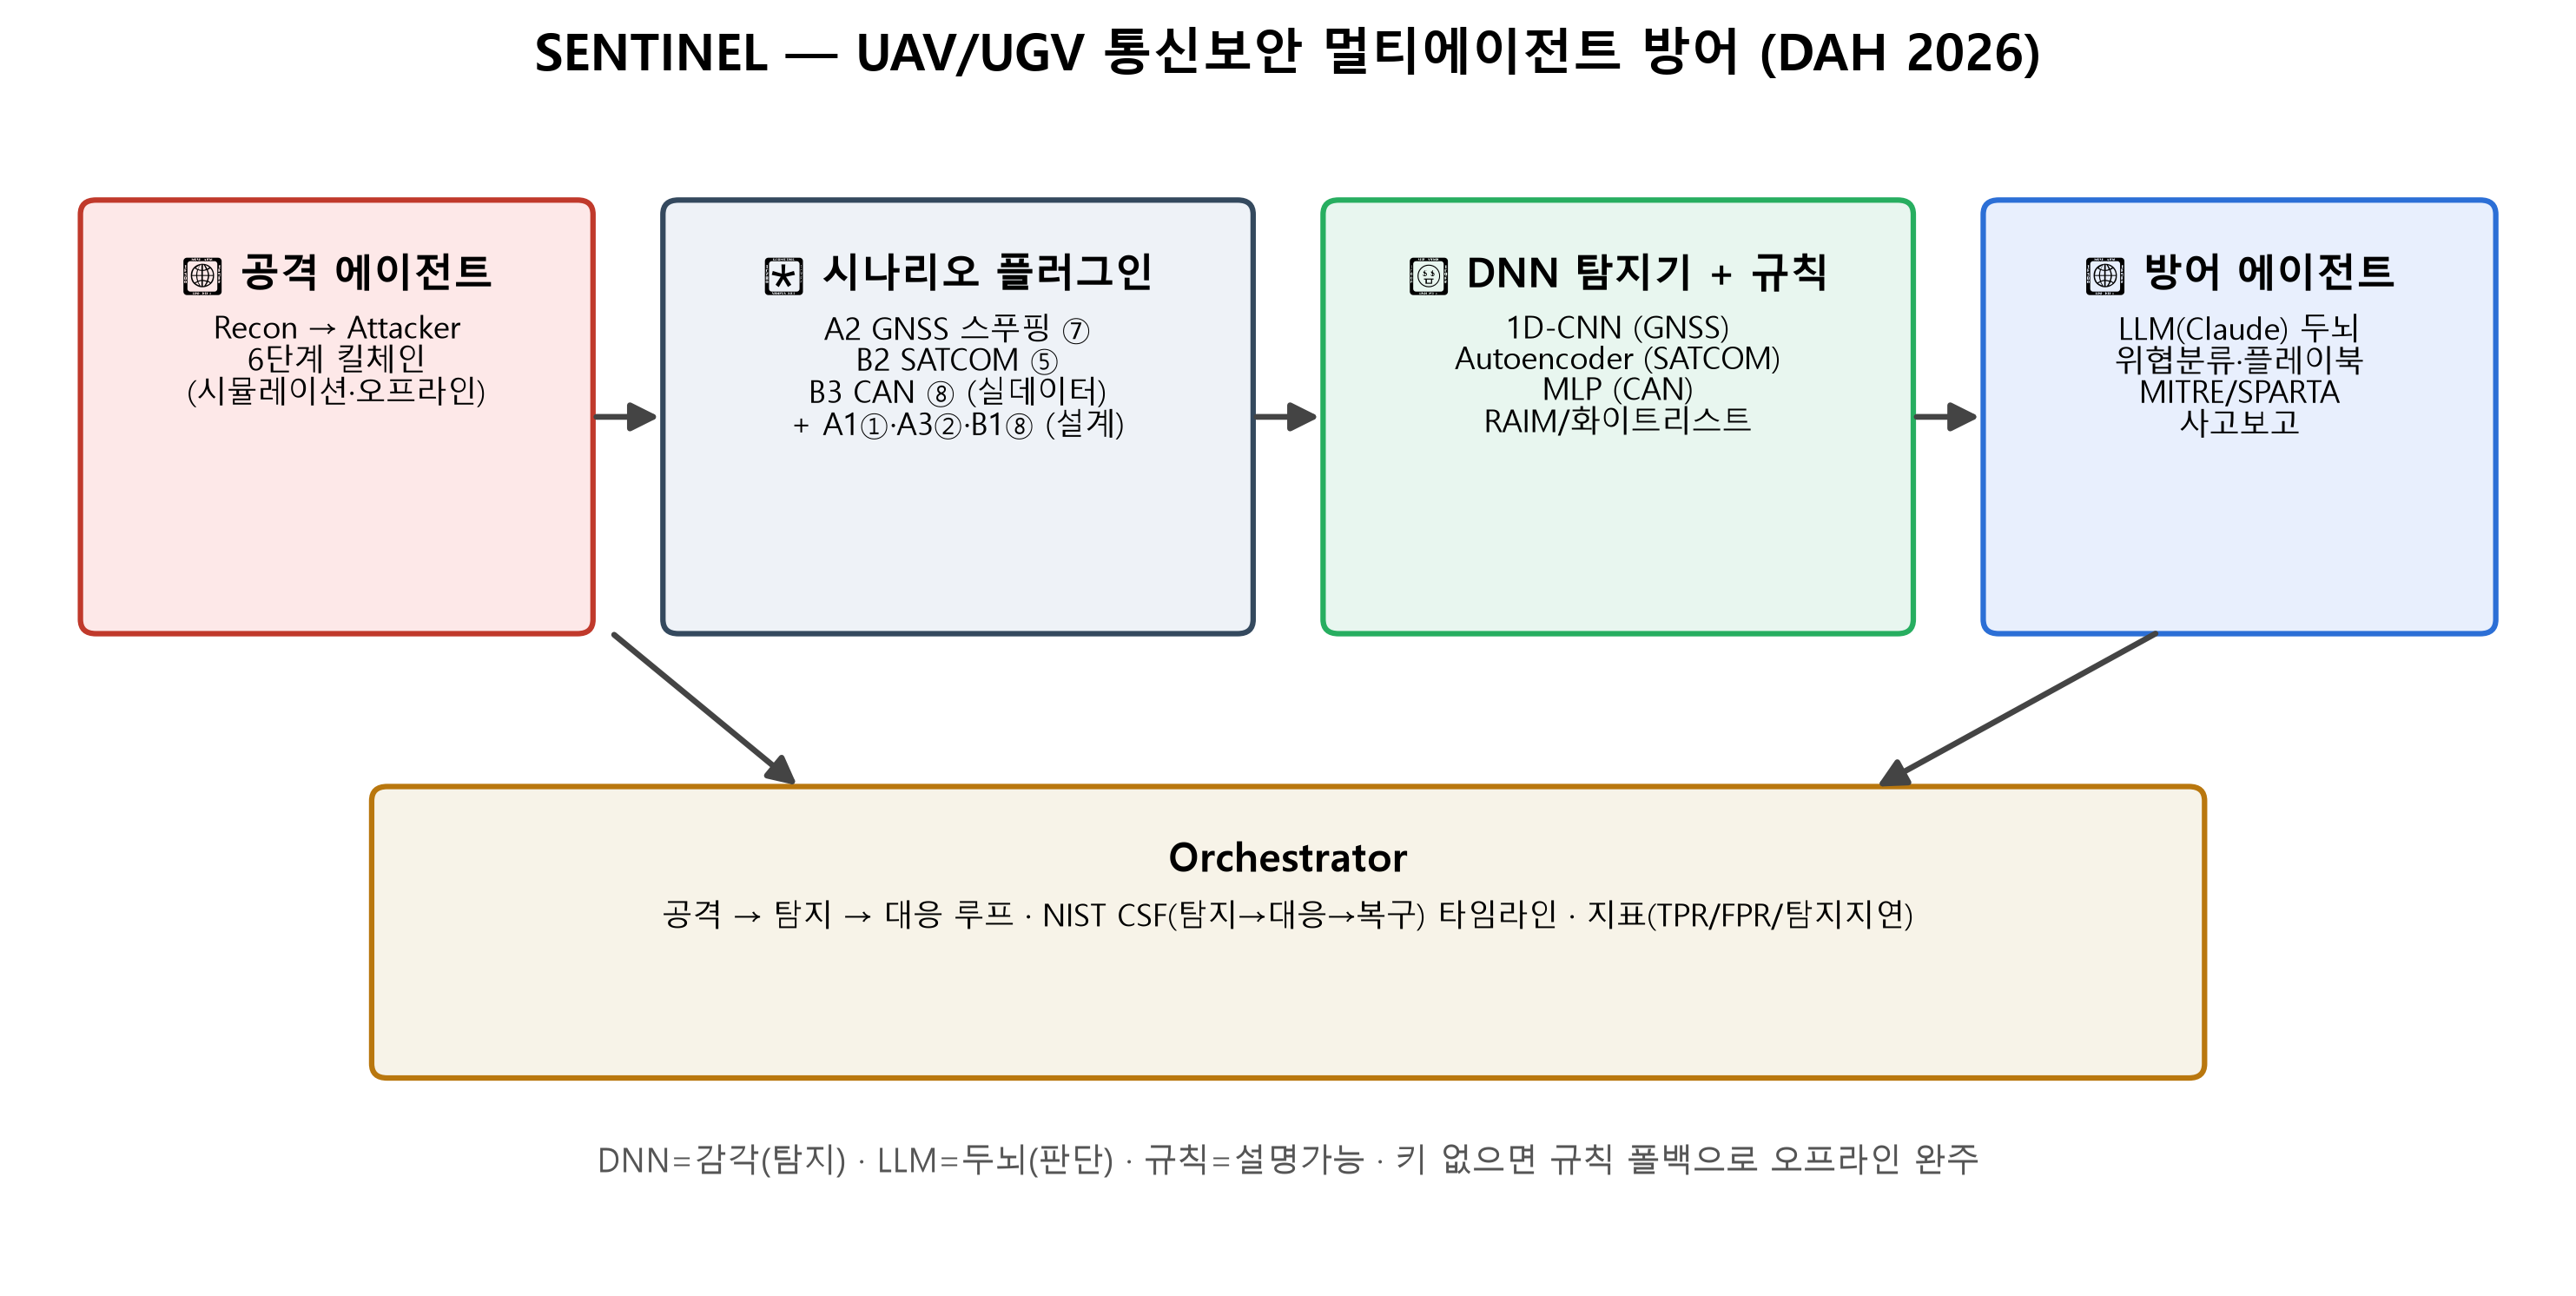
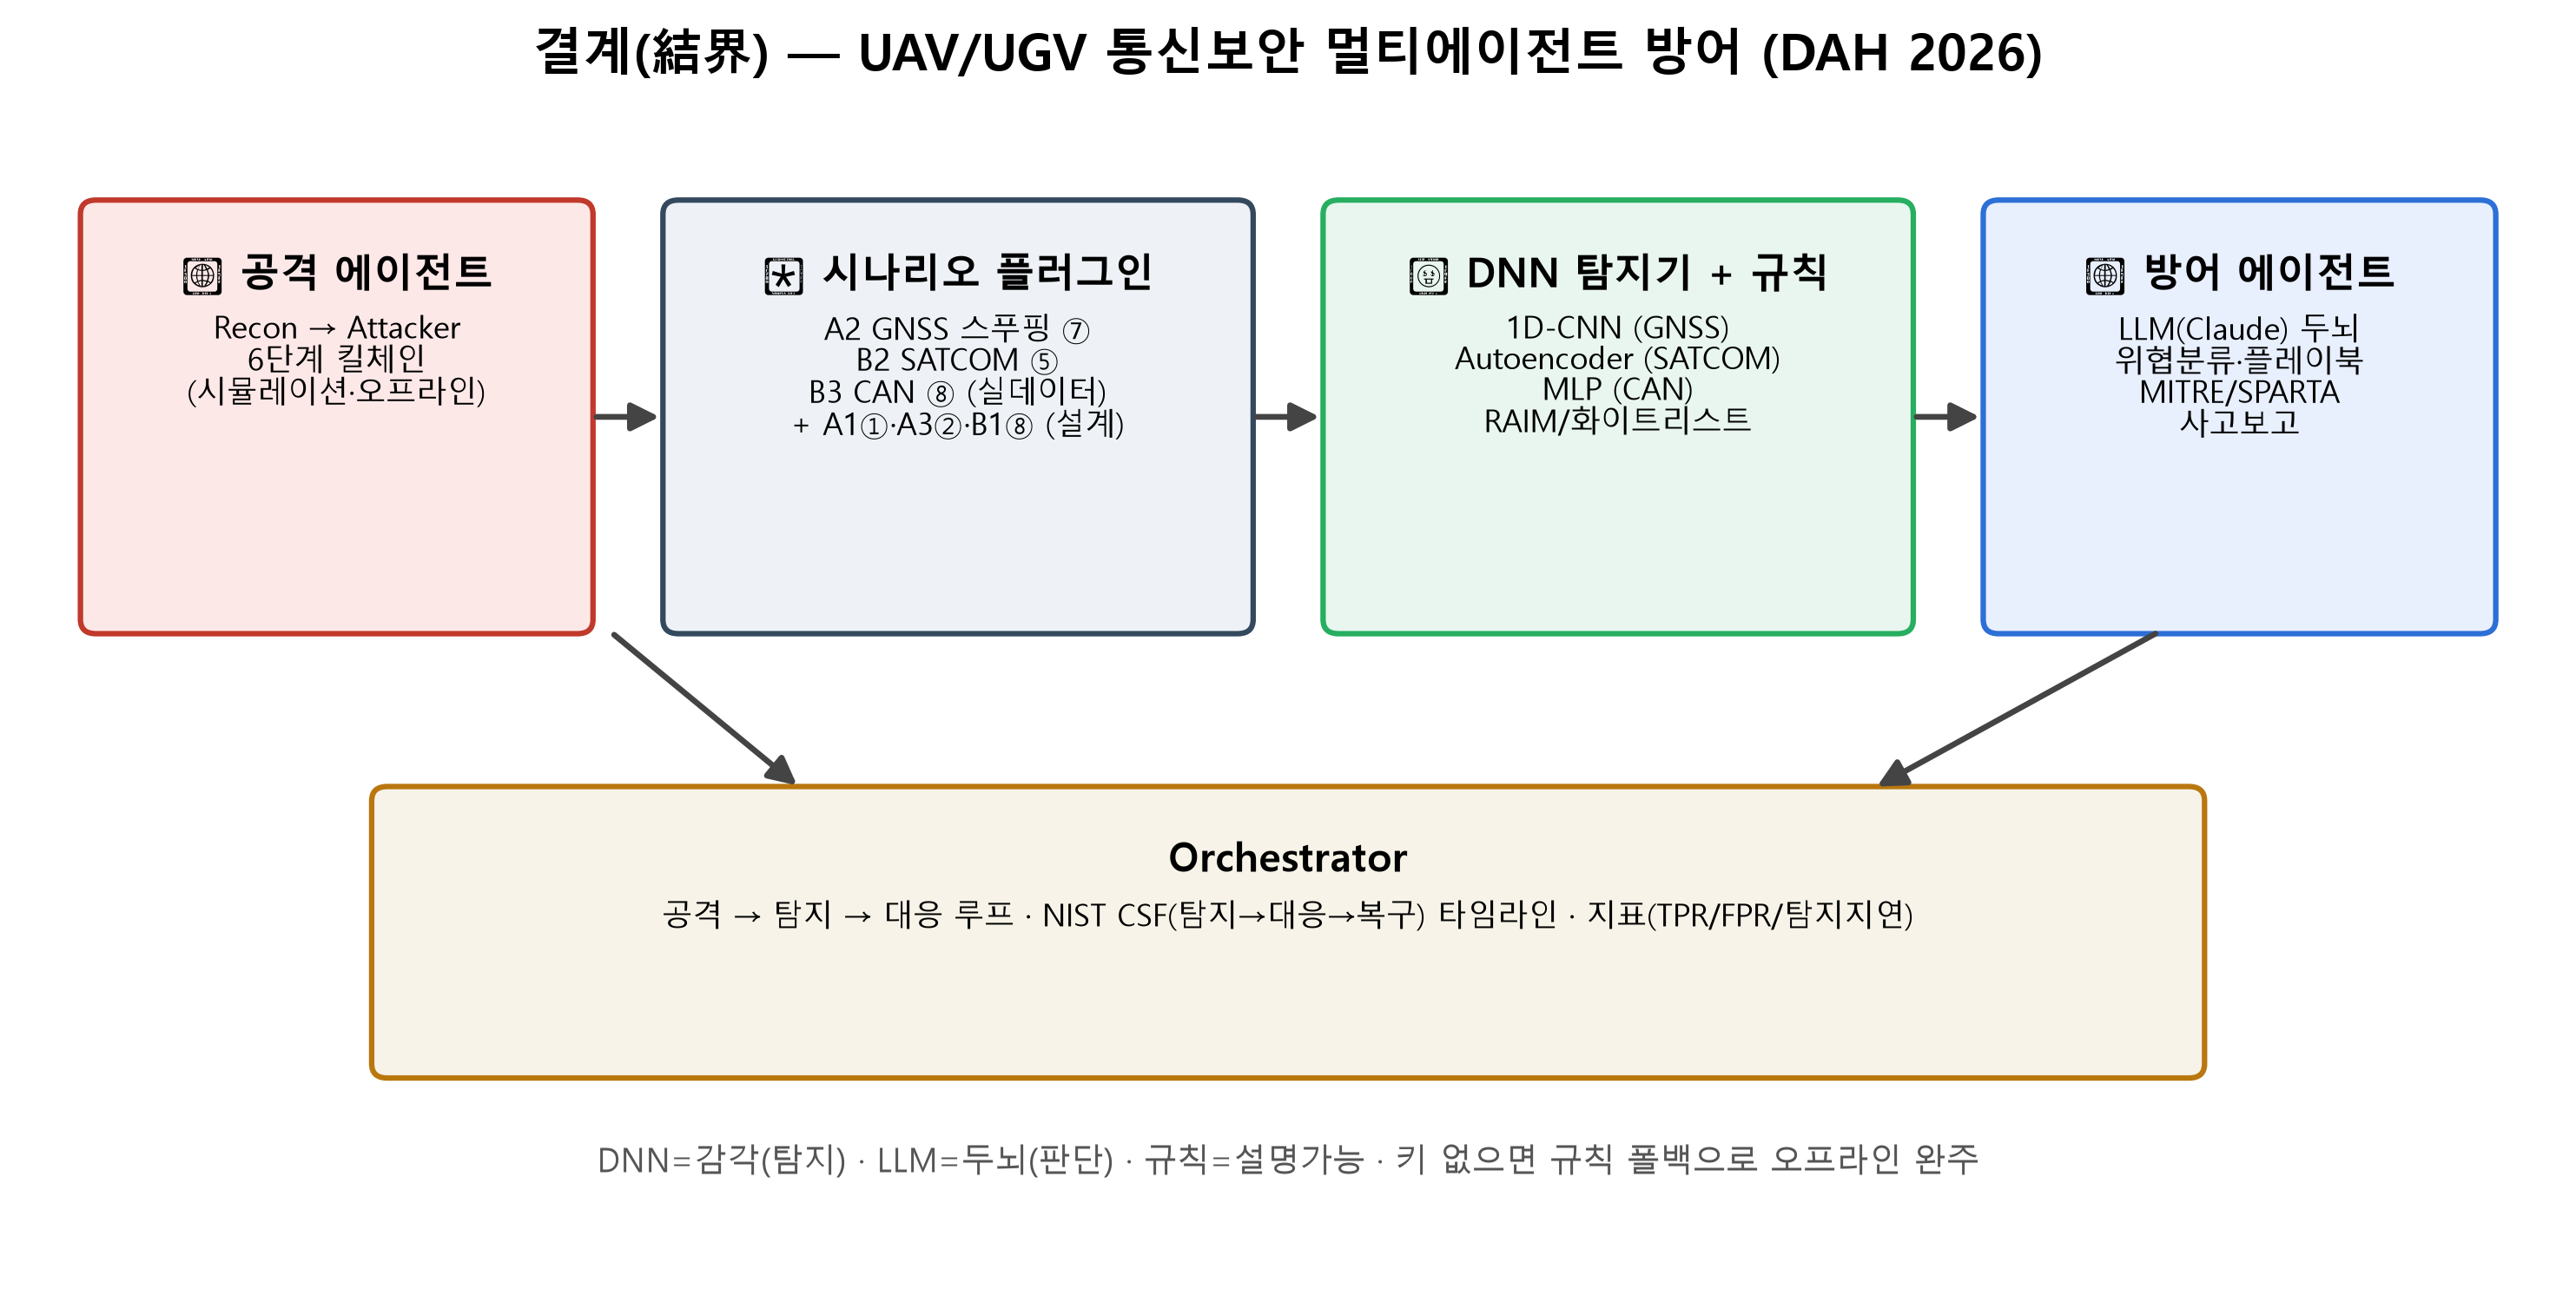
코드네임 변경: SENTINEL -> 결계(結界)
- 코드·README·아키텍처 다이어그램·환경변수(GYEOLGYE_DOCS_DIR) 전면 반영
- 팀 백공검(白空劍) 검 테마에 맞춘 시스템명

Changed region(s): [[0.5273, 0.0, 0.8065, 0.0617], [0.1861, 0.0, 0.3102, 0.0617], [0.3412, 0.0308, 0.4963, 0.0617]]

diff --git a/src/make_diagram.py b/src/make_diagram.py
@@ -1,4 +1,4 @@
-"""SENTINEL 아키텍처 다이어그램(PNG) 생성 — mermaid-cli 없이 matplotlib로.
+"""결계(結界) 아키텍처 다이어그램(PNG) 생성 — mermaid-cli 없이 matplotlib로.
 
 python src/make_diagram.py --docs-dir "…/dev_docu"  → 00_overview/architecture.png
 """
@@ -32,7 +32,7 @@ def _arrow(ax, x1, y1, x2, y2):
 def build():
     fig, ax = plt.subplots(figsize=(12.5, 6.2))
     ax.set_xlim(0, 13); ax.set_ylim(0, 7); ax.axis("off")
-    ax.text(6.5, 6.75, "SENTINEL — UAV/UGV 통신보안 멀티에이전트 방어 (DAH 2026)",
+    ax.text(6.5, 6.75, "결계(結界) — UAV/UGV 통신보안 멀티에이전트 방어 (DAH 2026)",
             ha="center", fontsize=14, fontweight="bold")
 
     _box(ax, 0.3, 3.6, 2.6, 2.4, "🔴 공격 에이전트",

diff --git a/src/paths.py b/src/paths.py
@@ -37,8 +37,8 @@ def data_dir() -> str:
 
 
 def resolve_docs_dir(cli_arg: str | None) -> str | None:
-    """--docs-dir 인자 > SENTINEL_DOCS_DIR 환경변수 > None(=results만)."""
-    d = cli_arg or os.environ.get("SENTINEL_DOCS_DIR") or None
+    """--docs-dir 인자 > GYEOLGYE_DOCS_DIR 환경변수 > None(=results만)."""
+    d = cli_arg or os.environ.get("GYEOLGYE_DOCS_DIR") or None
     if d:
         os.makedirs(d, exist_ok=True)
     return d

diff --git a/src/run_demo.py b/src/run_demo.py
@@ -1,4 +1,4 @@
-"""SENTINEL 데모 진입점 — 공격→탐지→대응 오케스트레이션을 실행.
+"""결계(結界) 데모 진입점 — 공격→탐지→대응 오케스트레이션을 실행.
 
 사용:
   python src/run_demo.py --scenario all --docs-dir "…/dev_docu"
@@ -52,7 +52,7 @@ def main():
              "탐지" if r["detected"] else "정상", r["score"],
              (f"{r['latency']}{r['latency_unit']}" if r["latency"] is not None else "-")]
             for r in results]
-    summary = ("# SENTINEL 오케스트레이션 요약\n\n"
+    summary = ("# 결계(結界) 오케스트레이션 요약\n\n"
                f"LLM 상태: {orch.llm.status}\n\n"
                + md_table(["시나리오", "계층", "위협", "탐지", "점수", "탐지지연"], rows)
                + "\n\n> 각 시나리오 상세는 `incident_<key>.md` 참조. "

diff --git a/src/__init__.py b/src/__init__.py
@@ -1,2 +1,2 @@
-"""SENTINEL — UAV/UGV 통신보안 멀티에이전트 방어 PoC (DAH 2026)."""
+"""결계(結界) — UAV/UGV 통신보안 멀티에이전트 방어 PoC (DAH 2026)."""
 __version__ = "0.1.0"

diff --git a/src/agents/orchestrator.py b/src/agents/orchestrator.py
@@ -35,7 +35,7 @@ class Orchestrator:
 
     def run(self, scenario_keys):
         c = self.console
-        c.rule("[bold]SENTINEL — 공격→탐지→대응 오케스트레이션")
+        c.rule("[bold]결계(結界) — 공격→탐지→대응 오케스트레이션")
         c.print(f"🧠 방어 에이전트 구동: [bold]{self.llm.status}[/]  "
                 f"(DNN 탐지기는 항상 활성)")
         results = []

diff --git a/results/demo/incident_b3_can.md b/results/demo/incident_b3_can.md
@@ -19,9 +19,7 @@
 - 최소 IAT 0.015 ms — 버스 폭주(DoS) 정황
 
 ## 위협 분석(에이전트)
-**위협 분석 결과: 높은 신뢰도의 CAN 버스 침투 공격 탐지**
-
-Wi-Fi 침투 이후 CAN 버스에서 미등록 ID 25%와 극도로 짧은 IAT(0.015ms)가 동시 관찰되었으며, 이는 정상 차량 통신 패턴과 완전히 상이한 특성입니다. 특히 단일 ID 점유율(12%)과 고유 ID 수(23개) 조합에서 비정상적 버스 폭주 및 구동계 명령 주입이 진행 중일 가능성이 높습니다. 경량 MLP 모델의 1.0 공격확률은 이러한 다층적 이상 신호들을 종합적으로 포착한 결과로, 즉각적인 CAN 격리 및 ECU 상태 검증이 필요합니다.
+④⑧ 내부버스 계층에서 경량 MLP(윈도 특징) 기반 이상 탐지(점수 1.0). 근거: 미등록 CAN ID 비율 25% — 퍼지/주입 정황 / 최소 IAT 0.015 ms — 버스 폭주(DoS) 정황.
 
 ## 대응 플레이북 (NIST CSF)
 ### 대응(Respond)
@@ -37,6 +35,4 @@ Wi-Fi 침투 이후 CAN 버스에서 미등록 ID 25%와 극도로 짧은 IAT(0.
 - 구동계·센서 도메인 분리 + IDS 상주
 
 ## 지휘 요약(에이전트)
-# CAN 인젝션 위협 대응 요약
-
-**위협상황**: 무인증 CAN 버스 악용으로 구동계 명령 변조 위험(T0859/T1565). 즉시 안전모드 진입 후 구동 토픽을 차단하여 차량을 물리적으로 정지시키고, 침해된 내부버스 세그먼트(도메인 ④⑧)를 격리합니다. **우선순위**: ① 즉시조치(1단계: 차량정지)→ ② 복구(격리된 세그먼트 무결성 검증, CAN 메시지 무결성 체크)→ ③ 근본대응(버스 인증메커니즘 추가, 메시지 암호화/서명 강제화, 비정상 CAN 프레임 탐지 시스템 구축).
+'CAN 인젝션 (내부버스 구동계 변조)' 확정. 즉시조치: 안전모드 진입 → 차량 정지(구동 토픽 차단). 이후 복구·근본대응(예방)까지 단계 실행. MITRE T0859 (Valid Accounts), T0814 (DoS), T1565 (Data Manipulation).

diff --git a/PLAN.md b/PLAN.md
@@ -1,7 +1,7 @@
 # DAH 2026 예선 — 구현 & 보고서 계획서 (PLAN v2 · 통합본 기준)
 
 > 작성 기준일: 2026-07-08 · 기준 문서: **DAH2026_서베이_통합본.md** (반현준·형유림·임다은·김태형 4인 통합, 8계층·시나리오 6개)
-> 시스템 코드네임(가칭): **SENTINEL** · 담당(구현 드라이브): 형유림
+> 시스템 코드네임(가칭): **결계(結界)** · 담당(구현 드라이브): 형유림
 > 이 문서 하나로 (A) 코드 구현 + (B) 보고서 작성을 함께 관리한다.
 
 ---
@@ -55,7 +55,7 @@
 
 ---
 
-## 2. 시스템 아키텍처 — SENTINEL
+## 2. 시스템 아키텍처 — 결계(結界)
 
 ```mermaid
 flowchart LR
@@ -212,7 +212,7 @@ dev/
 ---
 
 ## 7. 지금 필요한 결정·입력
-1. **[결정] 코드네임** — "SENTINEL" 그대로? 다른 이름?
+1. **[결정] 코드네임** — "결계(結界)" 그대로? 다른 이름?
 2. **[입력] 팀 정보** — 팀명 / 팀원 목록 / 각자 전문분야·역할·관련경험(§1·§3·파일명). (역할 분담 골격은 통합본에 있음)
 3. **[확인] CAN 데이터셋** — Car-Hacking(HCRL) 사용 OK? (등록 필요 시 시간 소요 → 합성 폴백 준비)
 4. **[확인] 데모 영상** — ③ 입증에 unlisted 영상 넣을지(선택, 가점).

diff --git a/README.md b/README.md
@@ -1,4 +1,4 @@
-# SENTINEL — UAV/UGV 통신보안 멀티에이전트 방어 (DAH 2026)
+# 결계(結界) — UAV/UGV 통신보안 멀티에이전트 방어 (DAH 2026)
 
 > 통합본 서베이의 **6개 공격 시나리오를 관통하는 하나의 AI 방어 프레임워크**.
 > 🔴공격 에이전트가 6단계 킬체인을 구동하면, 🧠**DNN 탐지기**(감각)가 이상을 잡고
@@ -65,7 +65,7 @@ dev/
 | 변수 | 용도 |
 | --- | --- |
 | `ANTHROPIC_API_KEY` | Claude 구동(없으면 규칙 폴백). SDK가 자동 인식 |
-| `SENTINEL_DOCS_DIR` | 보고서 근거자료 저장 폴더(`--docs-dir` 대체) |
+| `GYEOLGYE_DOCS_DIR` | 보고서 근거자료 저장 폴더(`--docs-dir` 대체) |
 
 ## 6. 재현성 · 폴백
 - 모든 난수는 `config.yaml`의 `seed`(기본 42)로 고정 → 결과 재현 가능.

diff --git a/results/demo/orchestrator_timeline_summary.md b/results/demo/orchestrator_timeline_summary.md
@@ -1,6 +1,6 @@
-# SENTINEL 오케스트레이션 요약
+# 결계(結界) 오케스트레이션 요약
 
-LLM 상태: Claude(claude-haiku-4-5)
+LLM 상태: 규칙 폴백(LLM 키 없음)
 
 | 시나리오 | 계층 | 위협 | 탐지 | 점수 | 탐지지연 |
 | --- | --- | --- | --- | --- | --- |

diff --git a/docs/architecture.md b/docs/architecture.md
@@ -1,4 +1,4 @@
-# SENTINEL 아키텍처
+# 결계(結界) 아키텍처
 
 ![architecture](architecture.png)
 